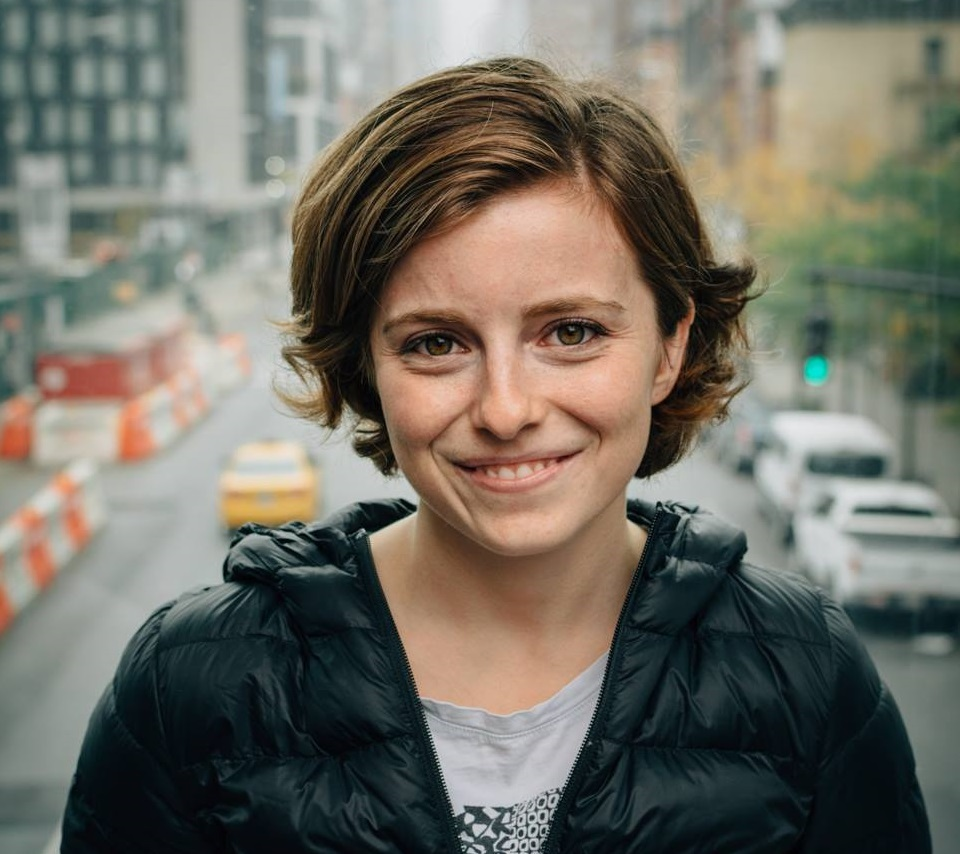
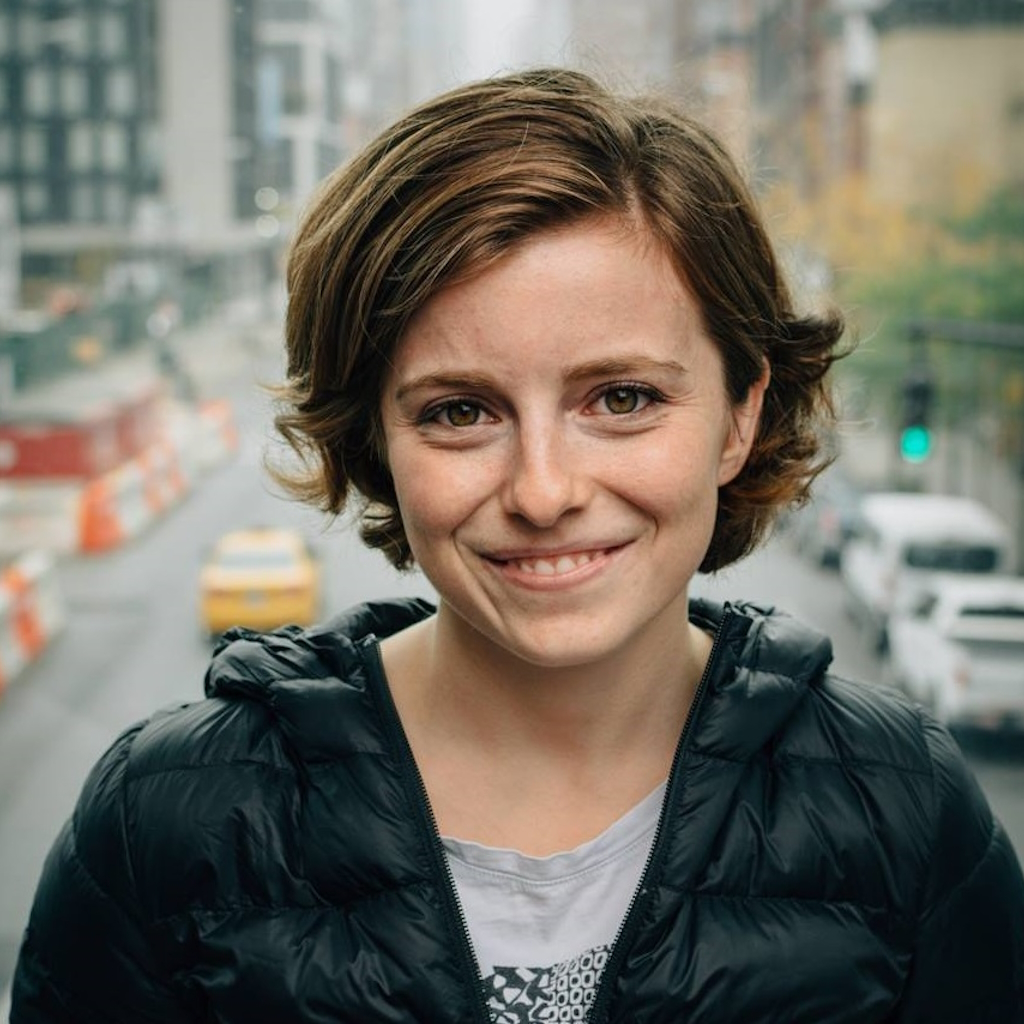
fix: 1. Unified pixel, resolution and size of selfie. 2. switch all home html view to dynamically read from object

diff --git a/src/main/resources/templates/home.html b/src/main/resources/templates/home.html
@@ -255,8 +255,8 @@
 								th:src="${cmeobj.image}"
 								alt="...">
 							<div class="px-2 py-3">
-								<h5 class="mb-0">Catherine</h5>
-								<p class="mb-0">Dev / Security Analyst</p>
+								<h5 class="mb-0" th:text=${cmeobj.Name}></h5>
+								<p class="mb-0" th:text=${cmeobj.roleName}></p>
 							</div>
 						</a>
 
@@ -286,11 +286,11 @@
 						<a href="wva-06"
 							class="d-block bg-white rounded p-2 shadow-primary-xs text-dark text-decoration-none transition-hover-top transition-all-ease-250">
 							<img class="img-fluid rounded"
-								src="assets/images/images/wva-06.jpg"
+								th:src="${wvaobj.image}"
 								alt="...">
 							<div class="px-2 py-3">
-								<h5 class="mb-0">Washington Valencia</h5>
-								<p class="mb-0">Dev / Ops</p>
+								<h5 class="mb-0" th:text=${wvaobj.Name}></h5>
+								<p class="mb-0" th:text=${wvaobj.roleName}></p>
 							</div>
 						</a>
 
